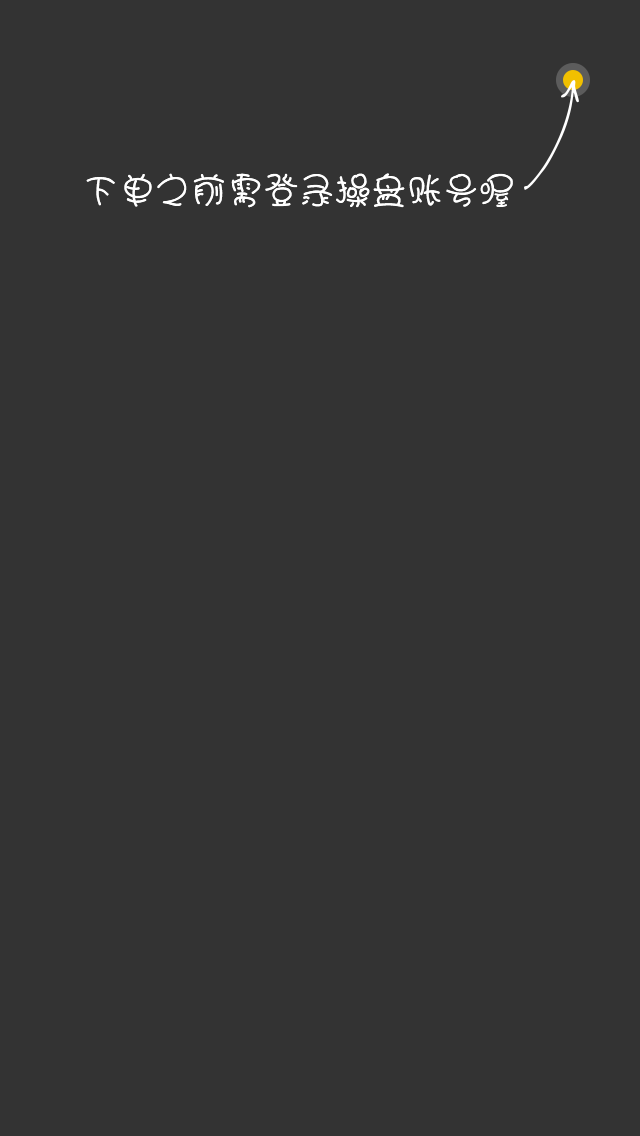
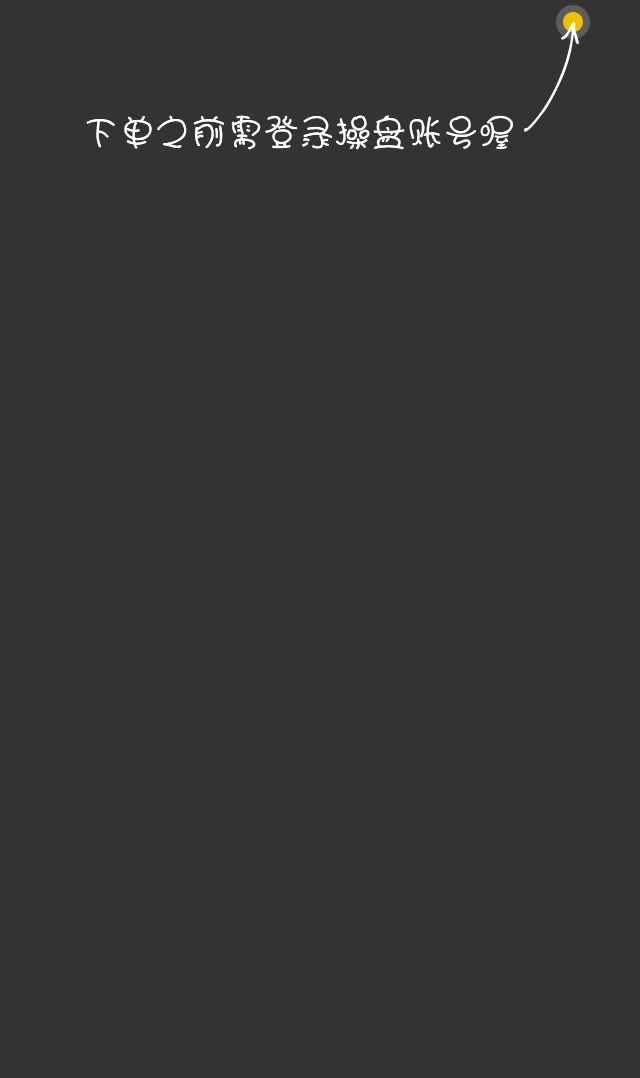
修改提示

Changed region(s): [[0.125, 0.0, 0.9375, 0.1837], [0.125, 0.0918, 0.1562, 0.1224]]

diff --git a/tzdr-app-web/tzdr/quotation/transactionDetails.html b/tzdr-app-web/tzdr/quotation/transactionDetails.html
@@ -109,7 +109,7 @@
 		</style>
 	</head>
 	<body style="background-color: #2B2B2B">
-		<div id="bg1" style="display: none;">
+		<div id="bg1" style="display: block;">
 			<header class="mui-bar mui-bar-nav"> 
 			    <a class="mui-icon mui-icon-left-nav mui-pull-left quotationBack mui-action-back" id= "backClose"><i>返回</i></a>
 			    <h1 class="mui-title mainTitle"><p class="mainTitleFirst"></p><p id="CommodityNo"></p></h1>
@@ -681,7 +681,7 @@
 				</div>
 			</div> 
 <!--------------------------止损单---------------------------------->
-			<div id="bg3" style="display: block;">
+			<div id="bg3" style="display: none;">
 				<header class="mui-bar mui-bar-nav" style="position: fixed;z-index: 998;">
 		   		    <a class="mui-icon mui-icon-left-nav mui-pull-left quotationBack" id= "conditionBack"><i>返回</i></a>
 				    <h1 class="mui-title">止损单</h1>
@@ -840,7 +840,7 @@
 						plus.storage.setItem("QuotationGuidanceTrade","1");
 						bindGuidance();
 					}
-					//bindGuidance()
+//					bindGuidance()
 					function bindGuidance(){
 					var height=window.innerHeight;
 					var width=window.innerWidth;
@@ -876,7 +876,7 @@
 									"position":"fixed",
 									"top":"46px",
 									"left":"0px",
-									"width":120+"px",
+									"width":"20%",
 									"height":50+"px",
 									"background-color":"rgba(0,0,0,0.8)",
 									"z-index":"992",
@@ -887,9 +887,11 @@
 								});
 								$("#closeDiv").css({
 									"left":Proportion*10+"px",
+									"top":"46px",
+									"z-index":"999"
 								});
 								$(".bottom").css({
-									"bottom":"0px",
+									"top":"46px",
 									"left":"0px",
 									"height":height+"px",
 									"background-image": "url(../../images/tradeGudice3.png)",
@@ -904,6 +906,7 @@
 								$(".bottom").css({
 									"bottom":"50px",
 									"left":"0px",
+									"top":"0px",
 									"height":height-50+"px",
 									"background-image": "url(../../images/tradeGudice4.png)",
 								});
